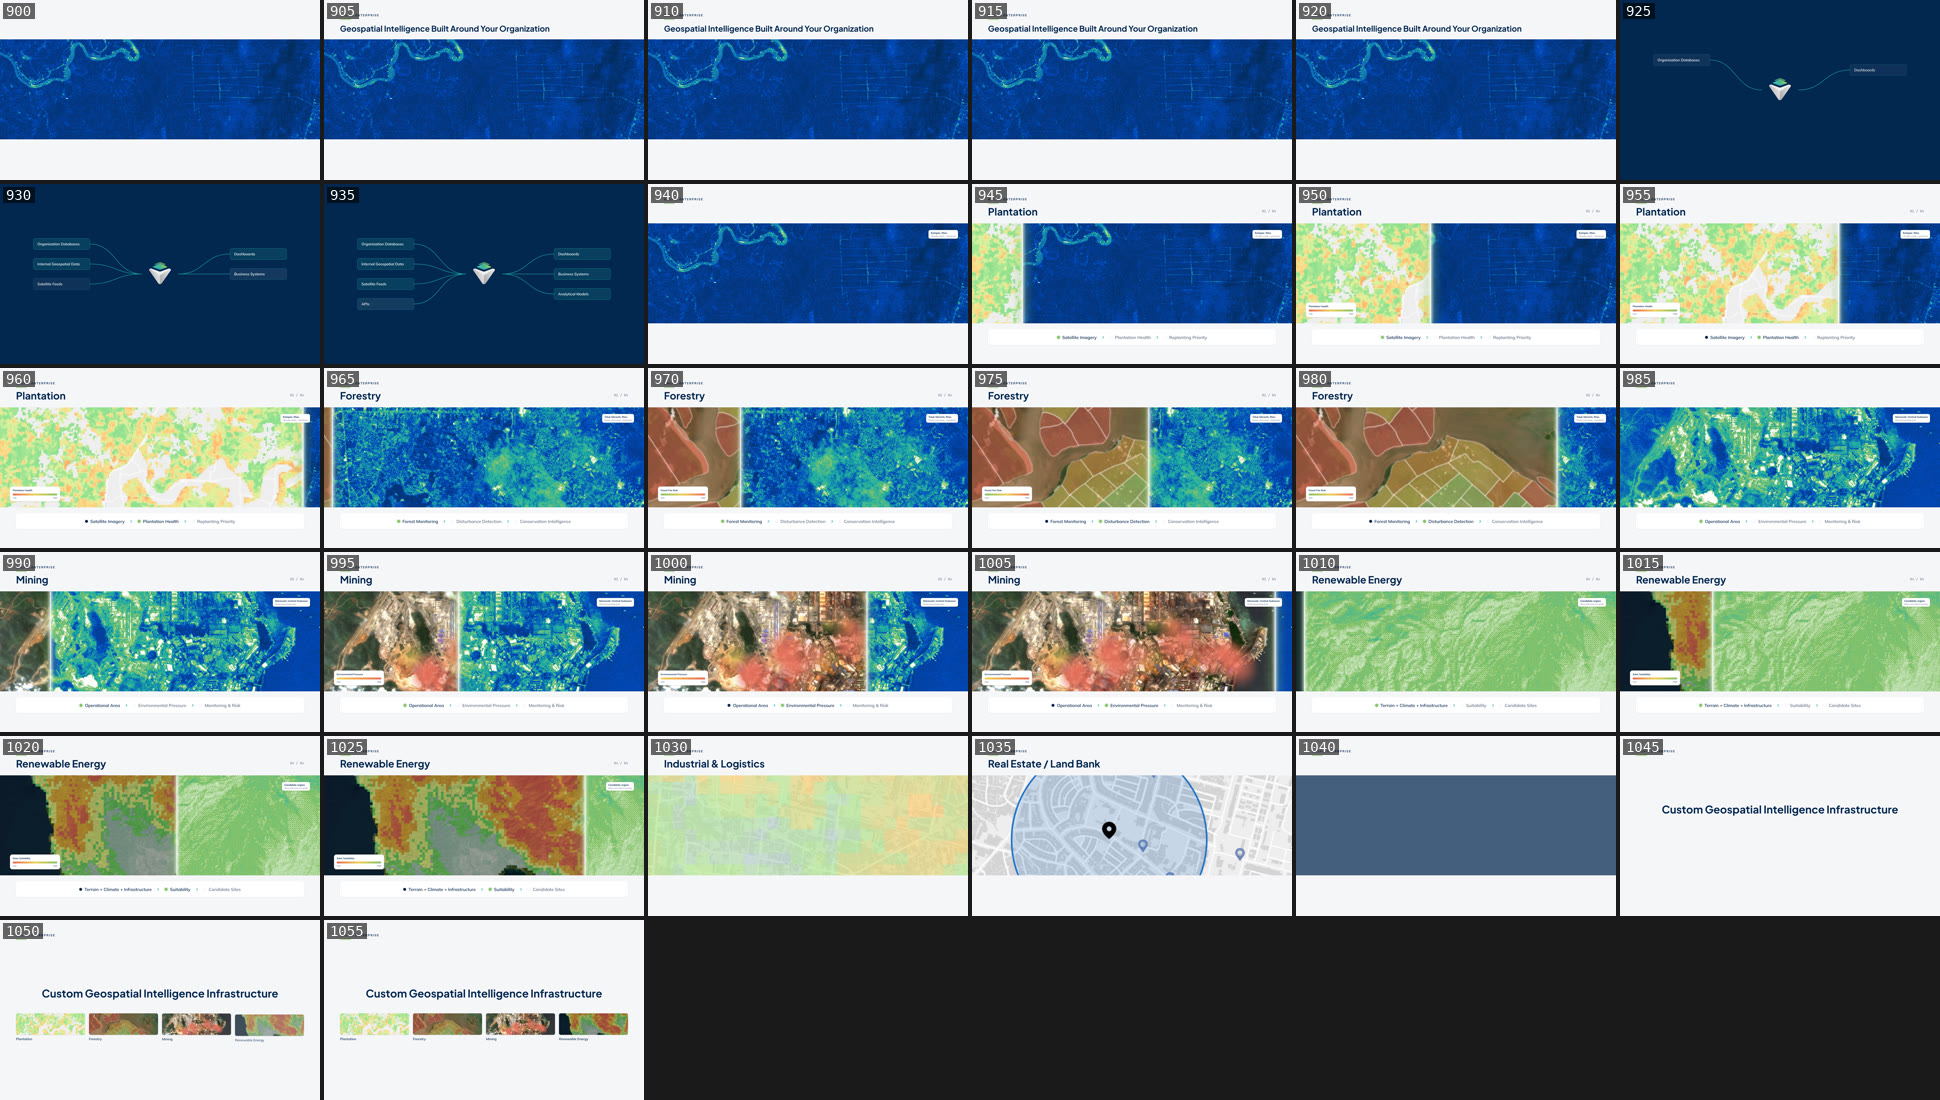
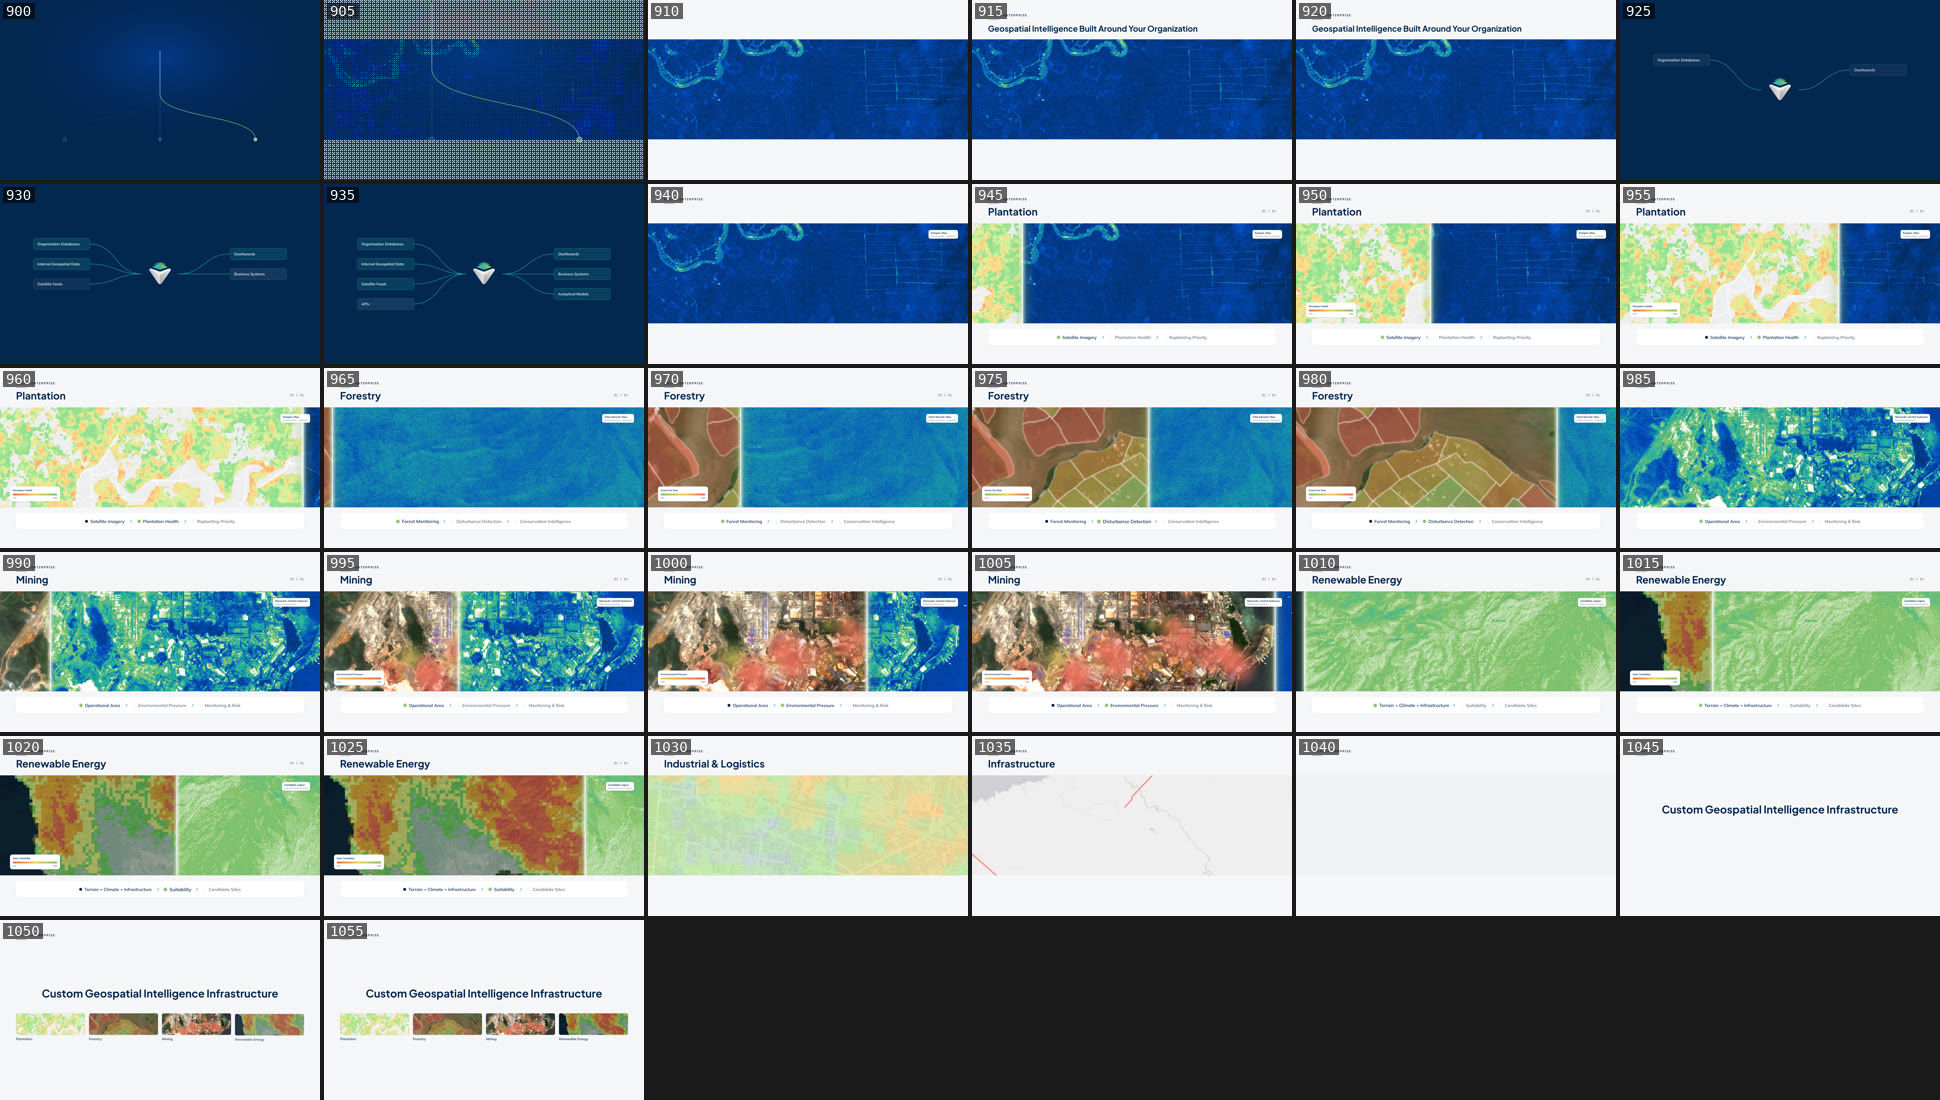
feat(galvis-film): full animation act 08
Opens from the architecture into the right branch; the sector strip drifts
(redrawn, screen-locked dither); Forestry runs biodiversity → fire risk; chain
steps pulse as they activate; hard cut from the plugboard; flashes on the grid;
clears to Light Gray for act 09.

Claude-Session: https://claude.ai/code/session_0187RN5xC2Ne3Dptw6LeZ6Ei

diff --git a/projects/galvis-launch-film/compositions/08-enterprise.html b/projects/galvis-launch-film/compositions/08-enterprise.html
@@ -42,6 +42,9 @@
           font-family: var(--font-display); font-weight: 700; font-size: 64px; color: var(--navy);
         }
         #act08-enterprise-dark { position: absolute; inset: 0; background: var(--navy); }
+        #act08-enterprise-navy { position: absolute; inset: 0; width: 1920px; height: 1080px; display: block; }
+        #act08-enterprise-arch { position: absolute; inset: 0; }
+        #act08-enterprise-arch svg { position: absolute; inset: 0; transform-origin: 0 0; }
         #act08-enterprise-cables { position: absolute; inset: 0; width: 1920px; height: 1080px; }
         #act08-enterprise-mark { position: absolute; left: 860px; top: 430px; width: 200px; height: 219px; }
         #act08-enterprise-mark > div { position: absolute; inset: 0; }
@@ -62,6 +65,8 @@
         <div id="act08-enterprise-chains"></div>
         <div id="act08-enterprise-position"></div>
         <div id="act08-enterprise-recap"></div>
+        <canvas id="act08-enterprise-navy" width="1920" height="1080" data-layout-allow-overflow></canvas>
+        <div id="act08-enterprise-arch" data-layout-allow-overflow></div>
         <div id="act08-enterprise-dark">
           <svg id="act08-enterprise-cables" viewBox="0 0 1920 1080"></svg>
           <div id="act08-enterprise-mark"></div>
@@ -89,15 +94,23 @@
           const W = 1920, H = 600;
           const S = 'assets/solution';
           const clean = (p) => GV.cleanCrop(`${S}/${p}`);
-          const raw = (src, crop) => GV.ditheredCanvas(src, W, H, { palette: 'brand', cell: 3, resolve: 0, crop });
-          const clear = (src, crop) => GV.ditheredCanvas(src, W, H, { palette: 'brand', cell: 3, resolve: 1, crop });
+          // Strip canvases keep 7 % of margin each side so their content can drift (redrawn on a moving crop).
+          const inset = ([x, y, w, h] = [0, 0, 1, 1]) => [x + w * 0.07, y, w * 0.86, h];
+          const strip_ = (resolve) => async (src, crop) => {
+            const base = inset(crop);
+            const c = await GV.ditheredCanvas(src, W, H, { palette: 'brand', cell: 3, resolve, crop: base });
+            c.base = base;
+            return c;
+          };
+          const raw = strip_(0);
+          const clear = strip_(1);
           const RIAU = 'assets/sentinel/riau-plantation.jpg', MORO = 'assets/sentinel/morowali-mining.jpg';
           const MORO_CROP = [0, 0.45, 0.72, 0.36];
 
           // Mining has no solution map: environmental pressure is painted over the clear scene around the smelters.
           const pressure = async () => {
             const c = await clear(MORO, MORO_CROP);
-            const g = c.getContext('2d');
+            c.overlay = (g) => {
             const rnd = GV.seeded(8);
             const cores = [[620, 500, 1], [1250, 300, 1], [900, 380, 0.7], [1500, 420, 0.5]];
             for (let k = 0; k < 40; k++) {
@@ -111,6 +124,8 @@
               g.fillStyle = grad;
               g.beginPath(); g.arc(x, y, r, 0, Math.PI * 2); g.fill();
             }
+            };
+            c.overlay(c.getContext('2d'));
             return c;
           };
 
@@ -122,7 +137,7 @@
           const SECTORS = GV.COPY['enterprise.sectors'];
           const sources = [
             [raw(RIAU, [0, 0.52, 0.62, 0.46]), clear(`${S}/AFS/desktop/precision.jpg`, clean('AFS/desktop/precision.jpg')), RAMP.up],
-            [raw(RIAU, [0.3, 0.08, 0.7, 0.4]), clear(`${S}/DMR/desktop/risk.jpg`, clean('DMR/desktop/risk.jpg')), RAMP.down],
+            [raw(`${S}/ESC/desktop/biodiversity.jpg`, clean('ESC/desktop/biodiversity.jpg')), clear(`${S}/DMR/desktop/risk.jpg`, clean('DMR/desktop/risk.jpg')), RAMP.down],
             [raw(MORO, MORO_CROP), pressure(), RAMP.heat],
             [raw(`${S}/ESRE/desktop/EnergyPotential-Desktop.jpg`, clean('ESRE/desktop/EnergyPotential-Desktop.jpg')), clear(`${S}/ESRE/desktop/SolarProperty-Desktop.jpg`, clean('ESRE/desktop/SolarProperty-Desktop.jpg')), RAMP.up],
           ];
@@ -157,13 +172,24 @@
           for (const [k, [p]] of FLASH.entries()) {
             const canvas = await clear(`${S}/${p}`, clean(p));
             strip.insertBefore(canvas, $('beam'));
-            flashes.push({ start: flashFrom + k / 3, canvas, name: make('div', 'head', $('heads'), GV.COPY['enterprise.flash'][k]) });
+            flashes.push({ start: flashFrom + k * 0.25, canvas, name: make('div', 'head', $('heads'), GV.COPY['enterprise.flash'][k]) });
           }
-          const flashTo = flashFrom + 1;
+          const flashTo = flashFrom + 0.75;
 
           // Everything in the strip is a function of time: which pair shows, where the beam is, which chain step is live.
           const SWEEP_FROM = 0.2, SWEEP_TO = 2.1;
           const show = (el, on) => { el.style.visibility = on ? 'visible' : 'hidden'; };
+          // The live sector's imagery drifts left across its 2.25 s (both canvases, same crop: the beam
+          // keeps showing the same place raw and clear).
+          const drift = (s, u) => {
+            const off = (Math.min(Math.max(u, 0), 2.25) / 2.25 - 0.5) * 0.12; // within the 7 % margin
+            for (const c of [s.rawC, s.clearC]) {
+              const [bx, by, bw, bh] = c.base;
+              c.layer.set({ crop: [bx + off * bw, by, bw, bh] });
+              c.layer.draw();
+              if (c.overlay) c.overlay(c.getContext('2d'));
+            }
+          };
           const apply = (t) => {
             const k = sectors.findLastIndex((s) => t >= s.start);
             const live = t < flashFrom ? Math.max(0, k) : -1;
@@ -180,22 +206,45 @@
               s.clearC.style.clipPath = `inset(0 ${W - x}px 0 0)`;
               s.rawC.style.clipPath = `inset(0 0 0 ${x}px)`;
               const u = t - s.start;
+              if (on) drift(s, u);
               const stage = u >= SWEEP_TO ? 2 : x >= W / 2 ? 1 : 0;
-              s.steps.forEach((el, j) => { el.className = j < stage ? 'done' : j === stage ? 'on' : ''; });
+              // The step that becomes active pulses once (scale 1 → 1.08 → 1).
+              const since = [0, SWEEP_FROM + (SWEEP_TO - SWEEP_FROM) / 2, SWEEP_TO][stage];
+              const pulse = Math.sin(Math.PI * Math.min(1, Math.max(0, (u - since) / 0.3)));
+              s.steps.forEach((el, j) => {
+                el.className = j < stage ? 'done' : j === stage ? 'on' : '';
+                el.style.transform = j === stage && on ? `scale(${(1 + 0.08 * pulse).toFixed(4)})` : '';
+              });
             });
-            const f = t >= flashFrom && t < flashTo ? Math.min(2, Math.floor((t - flashFrom) * 3)) : -1;
+            const f = t >= flashFrom && t < flashTo ? Math.min(2, Math.floor((t - flashFrom) * 4)) : -1;
             flashes.forEach((fl, i) => { show(fl.canvas, i === f); show(fl.name, i === f); });
             const beam = $('beam');
             show(beam, x > 0 && x < W);
             beam.style.transform = `translateX(${x}px)`;
           };
+          // Opening: act 07's last frame (navy, architecture, right branch lit); the camera pushes into the
+          // right branch end while the navy dissolves in Bayer order onto the first sector's raw strip.
+          const CAM = GV.CAM_END;
+          const navyCtx = $('navy').getContext('2d');
+          const curtain = GV.mountCurtain($('navy'), navyCtx.createPattern(GV.navyGlowCanvas(CAM), 'no-repeat'), 6);
+          $('arch').innerHTML = GV.architectureSvg({ lit: 'enterprise', scale: CAM });
+          const END = [960 + (1500 - 960) * CAM, 540 + (820 - 540) * CAM];
+          const opening = (t) => {
+            const k = 1 + 1.4 * GV.since(t, 0, 0.8, (u) => u * u);
+            $('arch').firstElementChild.style.transform = `matrix(${k}, 0, 0, ${k}, ${(END[0] * (1 - k)).toFixed(1)}, ${(END[1] * (1 - k)).toFixed(1)})`;
+            $('arch').style.opacity = String(1 - GV.since(t, 0.45, 0.35));
+            const navy = 1 - GV.since(t, 0.25, 0.75, (u) => u);
+            curtain.set(1 - navy);
+            $('navy').style.visibility = navy > 0 ? 'visible' : 'hidden';
+            $('arch').style.visibility = t < 0.8 ? 'visible' : 'hidden';
+          };
           const clock = { t: 0 };
-          tl.to(clock, { t: 16, duration: 16, ease: 'none', onUpdate: () => apply(clock.t) }, 0);
-          apply(0);
+          tl.to(clock, { t: 16, duration: 16, ease: 'none', onUpdate: () => { apply(clock.t); opening(clock.t); } }, 0);
+          apply(0); opening(0);
 
           // Bar 46: the tag and the line, over the first sector's raw strip.
           gsap.set([$('tag'), $('sub')], { opacity: 0, y: 16 });
-          tl.to([$('tag'), $('sub')], { opacity: 1, y: 0, duration: 0.5, stagger: 0.15, ease: 'power3.out' }, A(46));
+          tl.to([$('tag'), $('sub')], { opacity: 1, y: 0, duration: 0.5, stagger: 0.12, ease: 'expo.out' }, A(46, 2));
           tl.to($('sub'), { opacity: 0, y: -12, duration: 0.3 }, A(47));
 
           // Sector names and counters enter with each sector.
@@ -219,9 +268,11 @@
             return card;
           });
           gsap.set(thumbs, { opacity: 0, y: 30 });
-          tl.to(thumbs, { opacity: 1, y: 0, duration: 0.45, stagger: 0.12, ease: 'power3.out' }, A(53, 1));
+          tl.to(thumbs, { opacity: 1, y: 0, duration: 0.45, stagger: 0.12, ease: 'expo.out' }, A(53, 1));
+          // The last 0.3 s clear to plain Light Gray: act 09's curtain starts from it.
+          tl.to([$('tag'), $('position'), $('recap')], { opacity: 0, duration: 0.2 }, A(53, 3) + 0.2);
           gsap.set($('position'), { opacity: 0, y: 24 });
-          tl.to($('position'), { opacity: 1, y: 0, duration: 0.6, ease: 'power3.out' }, A(53));
+          tl.to($('position'), { opacity: 1, y: 0, duration: 0.6, ease: 'expo.out' }, A(53));
 
           // Bar 47, dark for a moment: seven systems are cabled into the hexagon one after another.
           const parts = GV.logoParts('act08');
@@ -244,7 +295,7 @@
           });
           gsap.set($('dark'), { opacity: 0 });
           tl.to($('dark'), { opacity: 1, duration: 0.15 }, A(47));
-          tl.to($('dark'), { opacity: 0, duration: 0.2 }, A(48) - 0.2);
+          tl.set($('dark'), { opacity: 0 }, A(48)); // hard cut from the plugboard to the first sector, on the bar
           gsap.set($('mark'), { scale: 0.8, opacity: 0 });
           tl.to($('mark'), { scale: 1, opacity: 1, duration: 0.4, ease: 'back.out(1.6)' }, A(47));
           cables.forEach(({ tile, path, order }) => {

diff --git a/projects/galvis-launch-film/shared/gv.js b/projects/galvis-launch-film/shared/gv.js
@@ -379,6 +379,17 @@ var GV = (() => {
       { t: 87.5, act: "act07-enrichment", what: "flow step 4", box: [1280, 910, 330, 70] },
       { t: 88, act: "act07-enrichment", what: "positioning line", box: [300, 860, 1320, 70] },
       { t: 89.5, act: "act07-enrichment", what: "back to the architecture", box: [0, 0, 1920, 1080] },
+      { t: 91, act: "act08-enterprise", what: "title", box: [96, 70, 1700, 140] },
+      { t: 92, act: "act08-enterprise", what: "plugboard goes dark", box: [0, 0, 1920, 1080] },
+      { t: 94, act: "act08-enterprise", what: "sector 1", box: [0, 236, 1920, 600] },
+      { t: 96.25, act: "act08-enterprise", what: "sector 2", box: [0, 236, 1920, 600] },
+      { t: 98.5, act: "act08-enterprise", what: "sector 3", box: [0, 236, 1920, 600] },
+      { t: 100.75, act: "act08-enterprise", what: "sector 4", box: [0, 236, 1920, 600] },
+      { t: 103, act: "act08-enterprise", what: "flash 1", box: [0, 236, 1920, 600] },
+      { t: 103.25, act: "act08-enterprise", what: "flash 2", box: [0, 236, 1920, 600] },
+      { t: 103.5, act: "act08-enterprise", what: "flash 3", box: [0, 236, 1920, 600] },
+      { t: 104, act: "act08-enterprise", what: "positioning line", box: [300, 390, 1320, 90] },
+      { t: 104.5, act: "act08-enterprise", what: "sector recap", box: [96, 560, 414, 130] },
       { t: 112, act: "act10-final", what: "sting", box: [0, 0, 1920, 1080] }
     ]
   };
